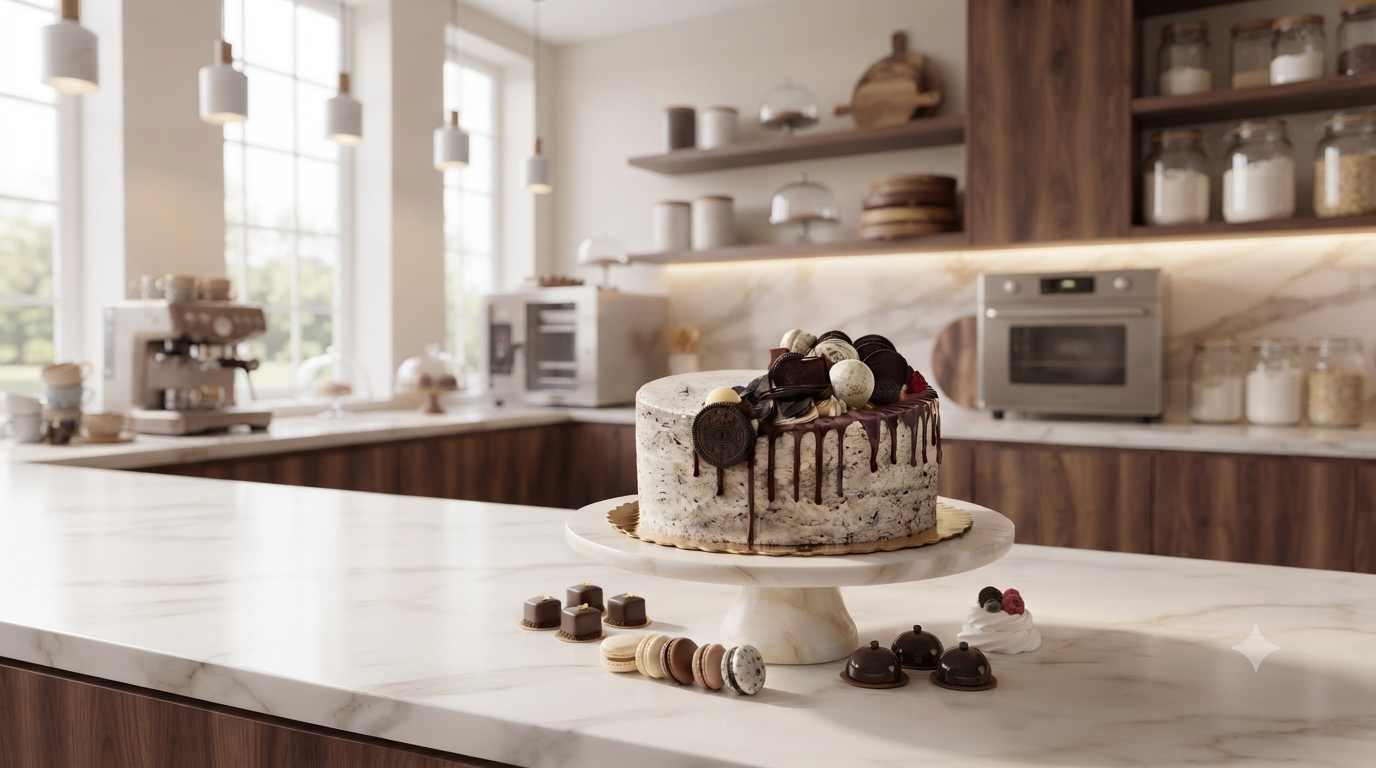
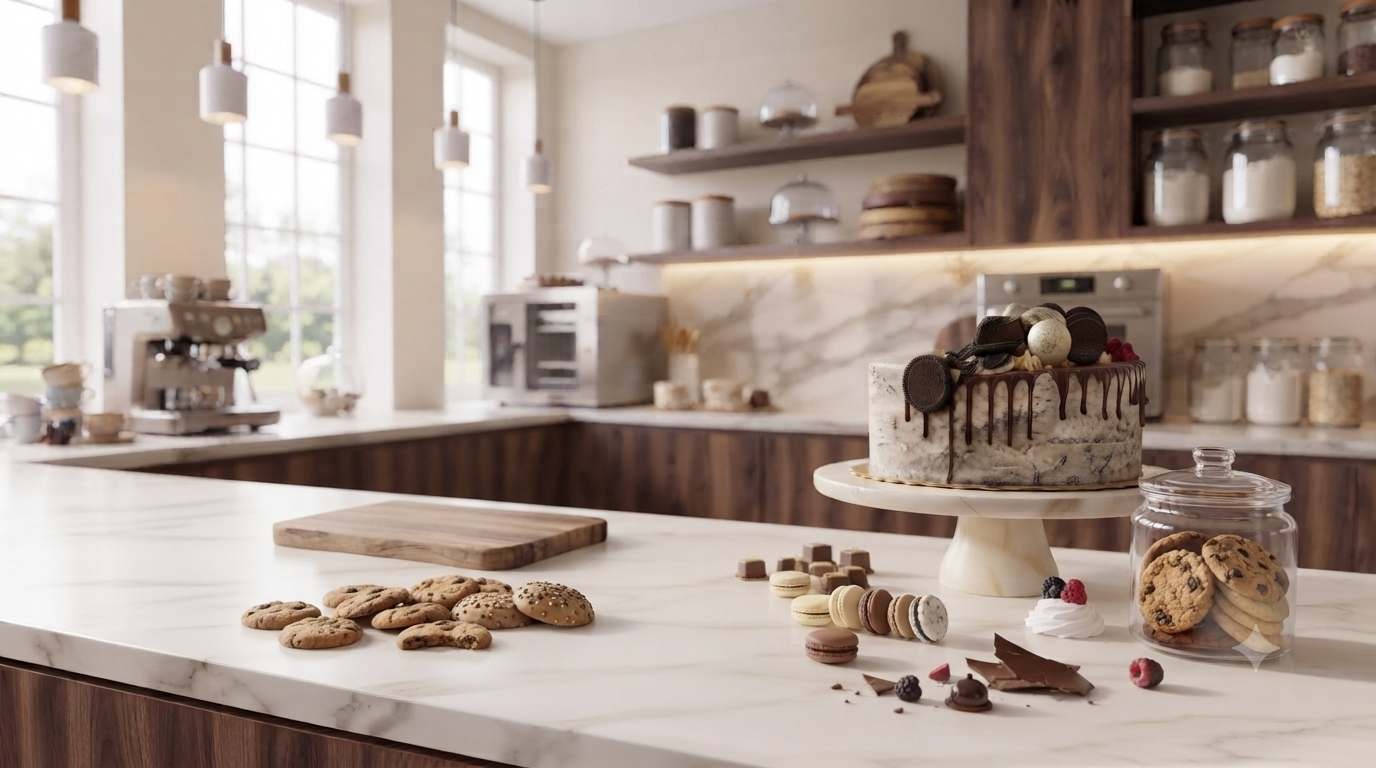
Added navbar with different color

diff --git a/frontend/src/components/Navbar.jsx b/frontend/src/components/Navbar.jsx
@@ -33,7 +33,7 @@ export default function Navbar() {
     <header 
       className={`fixed top-0 left-0 right-0 z-50 transition-all duration-300 ${
         scrolled 
-          ? "bg-white/90 backdrop-blur-md shadow-sm" 
+          ? "bg-white/95 backdrop-blur-md shadow-md" 
           : "bg-transparent"
       }`}
     >
@@ -44,7 +44,7 @@ export default function Navbar() {
           <Link to="/" className="flex items-center" onClick={() => window.scrollTo(0, 0)}>
             <img 
               src={logo} 
-              alt="Bi-Sweet Logo" 
+              alt="Hanit Bakery Logo" 
               className="h-14 md:h-16 lg:h-20 w-auto object-contain" 
             />
           </Link>
@@ -55,8 +55,8 @@ export default function Navbar() {
               onClick={() => handleSectionClick("home")}
               className={`text-sm font-medium transition-colors uppercase tracking-wide ${
                 scrolled 
-                  ? 'text-gray-700 hover:text-[#8B4A5A]' 
-                  : 'text-[#723C4B] hover:text-[#8B4A5A]'
+                  ? 'text-gray-700 hover:text-[#5C2A32]' 
+                  : 'text-[#5C2A32] hover:text-[#4A2228]'
               }`}
             >
               Home
@@ -65,8 +65,8 @@ export default function Navbar() {
               onClick={() => handleSectionClick("products")}
               className={`text-sm font-medium transition-colors uppercase tracking-wide ${
                 scrolled 
-                  ? 'text-gray-700 hover:text-[#8B4A5A]' 
-                  : 'text-[#723C4B] hover:text-[#8B4A5A]'
+                  ? 'text-gray-700 hover:text-[#5C2A32]' 
+                  : 'text-[#5C2A32] hover:text-[#4A2228]'
               }`}
             >
               Products
@@ -75,8 +75,8 @@ export default function Navbar() {
               onClick={() => handleSectionClick("about")}
               className={`text-sm font-medium transition-colors uppercase tracking-wide ${
                 scrolled 
-                  ? 'text-gray-700 hover:text-[#8B4A5A]' 
-                  : 'text-[#723C4B] hover:text-[#8B4A5A]'
+                  ? 'text-gray-700 hover:text-[#5C2A32]' 
+                  : 'text-[#5C2A32] hover:text-[#4A2228]'
               }`}
             >
               About
@@ -85,32 +85,28 @@ export default function Navbar() {
               onClick={() => handleSectionClick("contact")}
               className={`text-sm font-medium transition-colors uppercase tracking-wide ${
                 scrolled 
-                  ? 'text-gray-700 hover:text-[#8B4A5A]' 
-                  : 'text-[#723C4B] hover:text-[#8B4A5A]'
+                  ? 'text-gray-700 hover:text-[#5C2A32]' 
+                  : 'text-[#5C2A32] hover:text-[#4A2228]'
               }`}
             >
               Contact
             </button>
           </nav>
 
-          {/* Order Button */}
+          {/* Order Button - MORE VISIBLE */}
           <Link 
             to="/booking" 
             onClick={() => window.scrollTo(0, 0)}
-            className={`hidden md:inline-block border-2 px-6 py-2.5 text-sm font-medium transition-all uppercase tracking-wide ${
-              scrolled 
-                ? 'border-[#8B4A5A] text-[#8B4A5A] hover:bg-[#8B4A5A] hover:text-white'
-                : 'border-[#8B4A5A] text-[#8B4A5A] hover:bg-[#8B4A5A] hover:text-white'
-            }`}
+            className="hidden md:inline-block bg-[#5C2A32] text-white px-8 py-3 text-sm font-bold transition-all uppercase tracking-wider hover:bg-[#4A2228] hover:scale-105 hover:shadow-xl shadow-lg rounded-sm"
           >
-            Order
+            Order Now
           </Link>
 
           {/* Mobile Menu Button */}
           <button 
             onClick={() => setIsOpen(!isOpen)}
             className={`md:hidden text-2xl transition-colors ${
-              scrolled ? 'text-gray-700' : 'text-[#8B4A5A]'
+              scrolled ? 'text-gray-700' : 'text-[#5C2A32]'
             }`}
           >
             {isOpen ? "✕" : "☰"}
@@ -122,25 +118,25 @@ export default function Navbar() {
           <div className="md:hidden mt-4 pb-4 space-y-3 bg-white/95 backdrop-blur-md rounded-xl p-6 shadow-lg">
             <button 
               onClick={() => handleSectionClick("home")}
-              className="block w-full text-left text-[#723C4B] hover:text-[#8B4A5A] font-medium uppercase text-sm"
+              className="block w-full text-left text-[#5C2A32] hover:text-[#4A2228] font-medium uppercase text-sm"
             >
               Home
             </button>
             <button 
               onClick={() => handleSectionClick("products")}
-              className="block w-full text-left text-[#723C4B] hover:text-[#8B4A5A] font-medium uppercase text-sm"
+              className="block w-full text-left text-[#5C2A32] hover:text-[#4A2228] font-medium uppercase text-sm"
             >
               Products
             </button>
             <button 
               onClick={() => handleSectionClick("about")}
-              className="block w-full text-left text-[#723C4B] hover:text-[#8B4A5A] font-medium uppercase text-sm"
+              className="block w-full text-left text-[#5C2A32] hover:text-[#4A2228] font-medium uppercase text-sm"
             >
               About
             </button>
             <button 
               onClick={() => handleSectionClick("contact")}
-              className="block w-full text-left text-[#723C4B] hover:text-[#8B4A5A] font-medium uppercase text-sm"
+              className="block w-full text-left text-[#5C2A32] hover:text-[#4A2228] font-medium uppercase text-sm"
             >
               Contact
             </button>
@@ -150,9 +146,9 @@ export default function Navbar() {
                 window.scrollTo(0, 0);
                 setIsOpen(false);
               }}
-              className="block border-2 border-[#8B4A5A] text-[#8B4A5A] text-center px-6 py-2.5 font-medium uppercase text-sm"
+              className="block bg-[#5C2A32] text-white text-center px-6 py-3 font-bold uppercase text-sm hover:bg-[#4A2228] shadow-lg rounded-sm"
             >
-              Order
+              Order Now
             </Link>
           </div>
         )}
